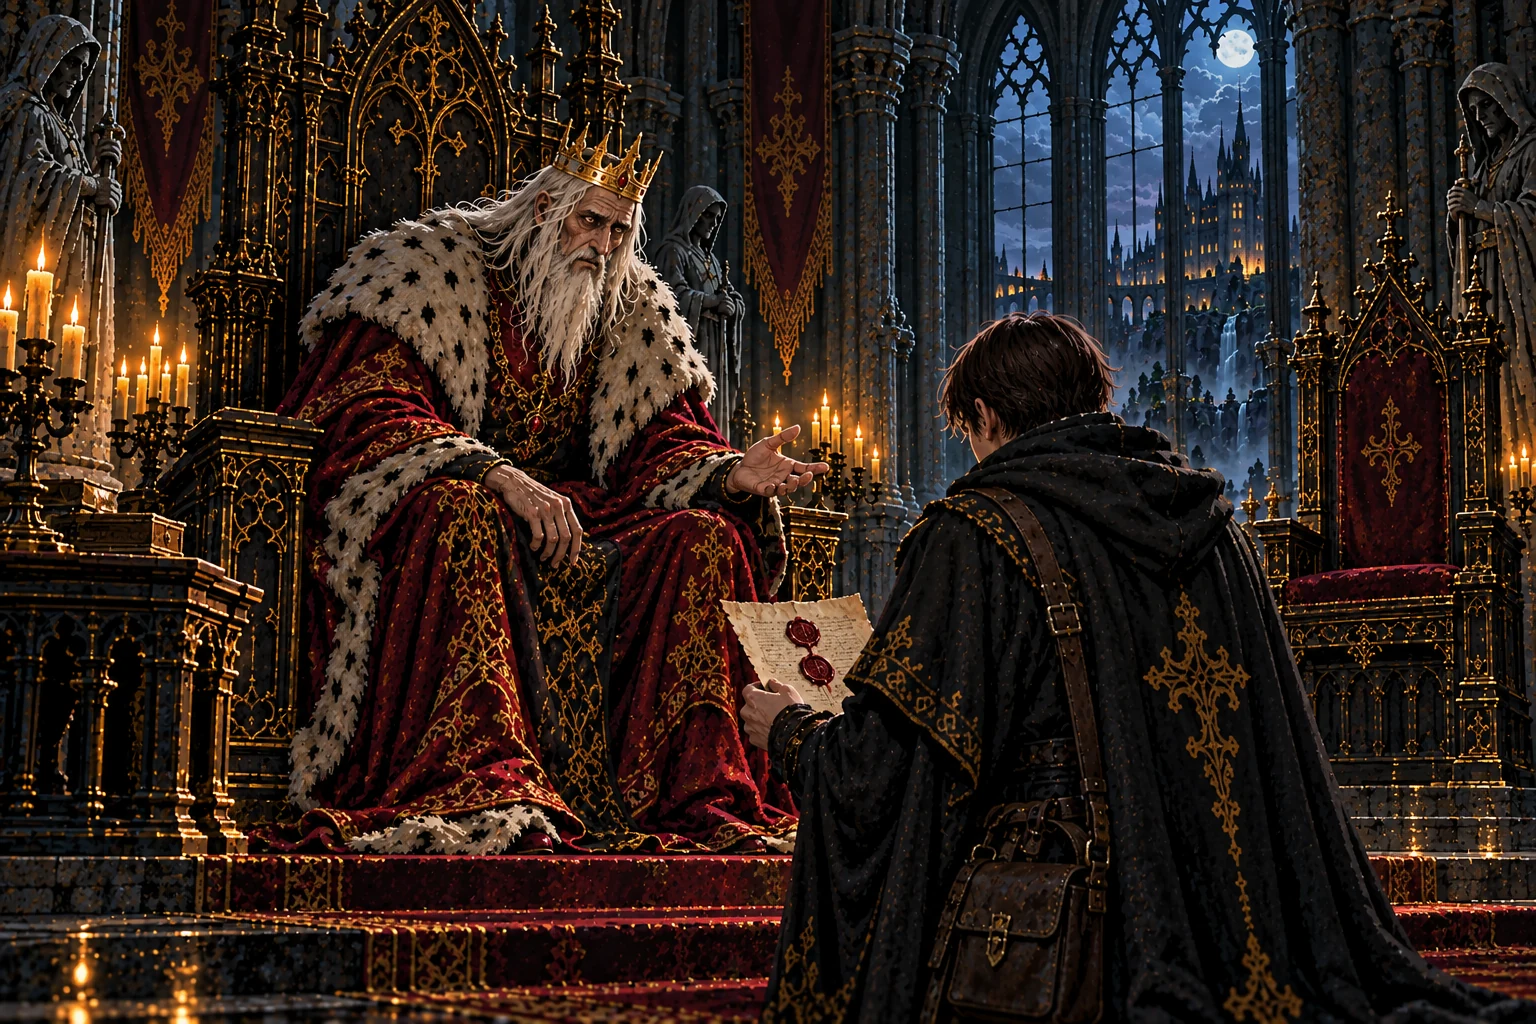
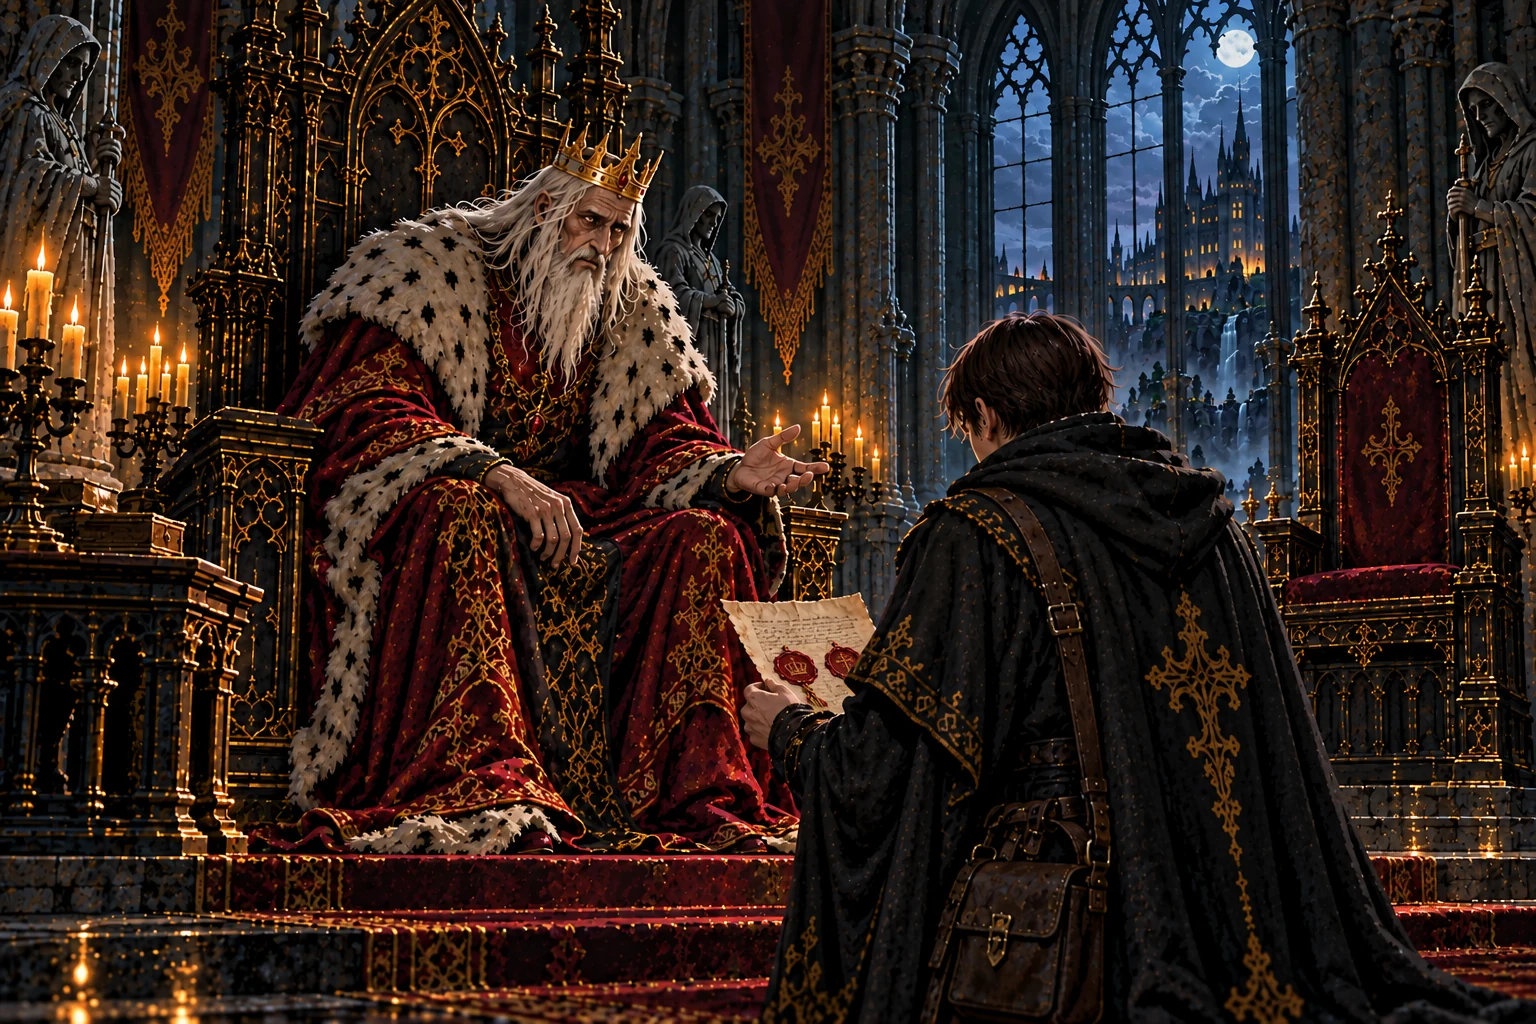
先代の王の書状を砦の書状と同じ二つの印に修正

diff --git a/art/story-review/review/status.md b/art/story-review/review/status.md
@@ -2,7 +2,7 @@
 
 書き出し: `node tools/storyart/review.mjs` (build.py も書き直す。手で直さない)。
 
-場面: 出荷済み 104 ・ 出荷済み (任意の修正あり) 11 ・ 未着手 (指示あり) 9
+場面: 出荷済み 104 ・ 出荷済み (任意の修正あり) 11 ・ 未着手 (指示あり) 22
 
 | 章 | 場面 | 題 | 状態 | 確認ページ |
 |---|---|---|---|---|
@@ -123,10 +123,23 @@
 | 第10章「地底大空洞」 | `irene_names` | 名を呼ぶ人 | 出荷済み | [見る](chapter10.md#irene_names) |
 | 第10章「地底大空洞」 | `w40_eyes` | それでも、底へ | 出荷済み | [見る](chapter10.md#w40_eyes) |
 | 第10章「地底大空洞」 | `report_w40` | 三百年の墓守 | 出荷済み | [見る](chapter10.md#report_w40) |
+| 第10章「地底大空洞」 | `pre_w41` | 階段の前の宰相 | 未着手 (指示あり) | [見る](chapter10.md#pre_w41) |
 | 第10章「地底大空洞」 | `mem_w41` | 階段の前のふたり | 未着手 (指示あり) | [見る](chapter10.md#mem_w41) |
 | 第10章「地底大空洞」 | `report_w41` | 王の資格 | 未着手 (指示あり) | [見る](chapter10.md#report_w41) |
 | 第10章「地底大空洞」 | `irene_candle` | 消せない灯 | 未着手 (指示あり) | [見る](chapter10.md#irene_candle) |
 | 第10章「地底大空洞」 | `ch10_end` | 第一部の終わり | 未着手 (指示あり) | [見る](chapter10.md#ch10_end) |
+| 第11章「夜明けの町」 | `w42_dawn` | 夜明けの町 | 未着手 (指示あり) | [見る](chapter11.md#w42_dawn) |
+| 第11章「夜明けの町」 | `report_w42` | 命令の届かぬ所 | 未着手 (指示あり) | [見る](chapter11.md#report_w42) |
+| 第11章「夜明けの町」 | `irene_why` | ついて歩く理由 | 未着手 (指示あり) | [見る](chapter11.md#irene_why) |
+| 第11章「夜明けの町」 | `w43_jars` | 今日の瓶 | 未着手 (指示あり) | [見る](chapter11.md#w43_jars) |
+| 第11章「夜明けの町」 | `report_w43` | 晴れた空の雨 | 未着手 (指示あり) | [見る](chapter11.md#report_w43) |
+| 第11章「夜明けの町」 | `w44_glass` | 一度だけ | 未着手 (指示あり) | [見る](chapter11.md#w44_glass) |
+| 第11章「夜明けの町」 | `irene_onlyonce` | 決めるのは | 未着手 (指示あり) | [見る](chapter11.md#irene_onlyonce) |
+| 第11章「夜明けの町」 | `report_w44` | 一度だけ、と言える者 | 未着手 (指示あり) | [見る](chapter11.md#report_w44) |
+| 第11章「夜明けの町」 | `mem_w45` | 終わりの頁 | 未着手 (指示あり) | [見る](chapter11.md#mem_w45) |
+| 第11章「夜明けの町」 | `report_w45` | 余の終わりの頁 | 未着手 (指示あり) | [見る](chapter11.md#report_w45) |
+| 第11章「夜明けの町」 | `irene_lastpage` | 両方を持って | 未着手 (指示あり) | [見る](chapter11.md#irene_lastpage) |
+| 第11章「夜明けの町」 | `ch11_end` | 同じ天井の下で | 未着手 (指示あり) | [見る](chapter11.md#ch11_end) |
 | 序章 | `irene_repair` | 砕けても、名は消えない | 出荷済み | [見る](chapter0.md#irene_repair) |
 | 第1章「師の灯」 | `irene_familiar` | 名で呼べる距離 | 出荷済み | [見る](chapter1.md#irene_familiar) |
 | 第3章「魂脈の根」 | `irene_trust` | 扉を開けた日のこと | 出荷済み | [見る](chapter3.md#irene_trust) |
@@ -174,6 +187,10 @@
 | 由来 | `w39` | 黒い灯の地底湖 | 出荷済み | [見る](dungeons.md#lore_w39) |
 | 由来 | `w40` | 名を刻む石窟 | 出荷済み | [見る](dungeons.md#lore_w40) |
 | 由来 | `w41` | 底なしの大伽藍 | 出荷済み | [見る](dungeons.md#lore_w41) |
+| 由来 | `w42` | 書架の大階段 | 未着手 (情景・手がかりの絵で代用) | [見る](dungeons.md#lore_w42) |
+| 由来 | `w43` | 雨垂れの書庫 | 未着手 (情景・手がかりの絵で代用) | [見る](dungeons.md#lore_w43) |
+| 由来 | `w44` | 眠り灯の工房 | 未着手 (情景・手がかりの絵で代用) | [見る](dungeons.md#lore_w44) |
+| 由来 | `w45` | 大書庫 | 未着手 (情景・手がかりの絵で代用) | [見る](dungeons.md#lore_w45) |
 | 由来 | `ws1` | 沈んだ礼拝堂 | 出荷済み | [見る](dungeons.md#lore_ws1) |
 | 由来 | `ws2` | 石眠りの石切り場 | 出荷済み | [見る](dungeons.md#lore_ws2) |
 | 由来 | `ws3` | 霧の迷い森 | 出荷済み | [見る](dungeons.md#lore_ws3) |
@@ -196,4 +213,6 @@
 | 由来 | `ws20` | 大空洞の主の寝床 | 出荷済み | [見る](dungeons.md#lore_ws20) |
 | 由来 | `ws21` | 化石竜の墓所 | 出荷済み | [見る](dungeons.md#lore_ws21) |
 | 由来 | `ws22` | 水晶の鉱脈 | 出荷済み | [見る](dungeons.md#lore_ws22) |
+| 由来 | `ws23` | 絵本の閲覧室 | 未着手 (情景・手がかりの絵で代用) | [見る](dungeons.md#lore_ws23) |
+| 由来 | `ws24` | 閉架の書庫 | 未着手 (情景・手がかりの絵で代用) | [見る](dungeons.md#lore_ws24) |
 | 由来 | `w00_forest` | 近くの森の古屋 | 出荷済み | [見る](dungeons.md#lore_w00_forest) |

diff --git a/docs/art/codex-story-art-brief.md b/docs/art/codex-story-art-brief.md
@@ -218,6 +218,14 @@ Character reference sheet on a plain dark slate-blue background with soft even l
 
 ### A. 必須 (物語の筋や正典と食い違う)
 
+
+**A-38. 第二章 report_w09「先代という仮面」（ゲーム内「先代の王」）** `art/story-review/chapter2/report_w09.png` (済)
+- ユーザー指定 (2026-10-15): 弟子が持つ手紙を、`art/story-review/chapter2/mem_w09.png`「砦を捧げた書状」と同じ書状にする。赤い封蝋を横に二つ並べ、左を金の王冠の王家の紋、右を参照と同じ金の宰相府の紋にし、赤金の組紐も合わせる。手に持つ角度と縮尺に合わせる。
+- 保つもの: 王と弟子の顔・姿勢・手・衣装、空の宰相の席、玉座の間、構図、画風、光。本文は変えない。
+```text
+...except: correct ONLY the parchment letter held by the apprentice in the foreground. Use art/story-review/chapter2/mem_w09.png as the exact reference for the SAME physical letter: aged parchment with illegible ink scribbles and TWO glossy deep red wax seals side by side across its lower portion, each with a gold embossed emblem and matching short red-and-gold twisted cords. The LEFT seal bears the identical gold royal CROWN emblem. The RIGHT seal bears the identical gold chancellery emblem from the reference (the branching upright staff/cross-like heraldic design, not a crown and not a lamp or flame). Replace the current vertically stacked mismatched seals. Match both silhouettes, colors, emblems, relative arrangement and cords to the reference letter, adapted to the perspective and small size of the parchment held in the apprentice's hands. Keep the paper naturally held in the existing hands. Preserve every other part of the original illustration, including the king, apprentice, hands, costumes, empty chancellor chair, architecture, framing, fine pixel texture and lighting. Do not copy the fortress scene. No readable lettering.
+```
+
 **A-37. 第一章 irene_reveal「レースの下の継ぎ目」** `art/story-review/chapter1/irene_reveal.png` (済)
 - ユーザー指定 (2026-10-14): 手首のレース下のロボット状の機構を除去し、レースを肘までめくって、他の人業と同じ黒鉄の肘の継ぎ目を見せる。白い手首と前腕は滑らかにする。
 - 本文もユーザー指示に合わせ「白い手首に、」を「白い手首の先に、」へ変更。一覧の説明も肘の継ぎ目にそろえる。

diff --git a/art/story-review/review/chapter2.md b/art/story-review/review/chapter2.md
@@ -350,6 +350,8 @@
 > 「軍議の卓の地図を見たか。百の迷宮は、王都の井戸よ。その根が、本丸の大穴の下にある。」
 >
 > 「……余は止めぬ。止める資格も無い。行け、{弟子名}よ。」
+>
+> 「この先は、余にも分からぬ土地だ。見た道は地図に残しておけ。戻った折には、余にも聞かせてくれ。」
 
 <a name="irene_roots"></a>
 
